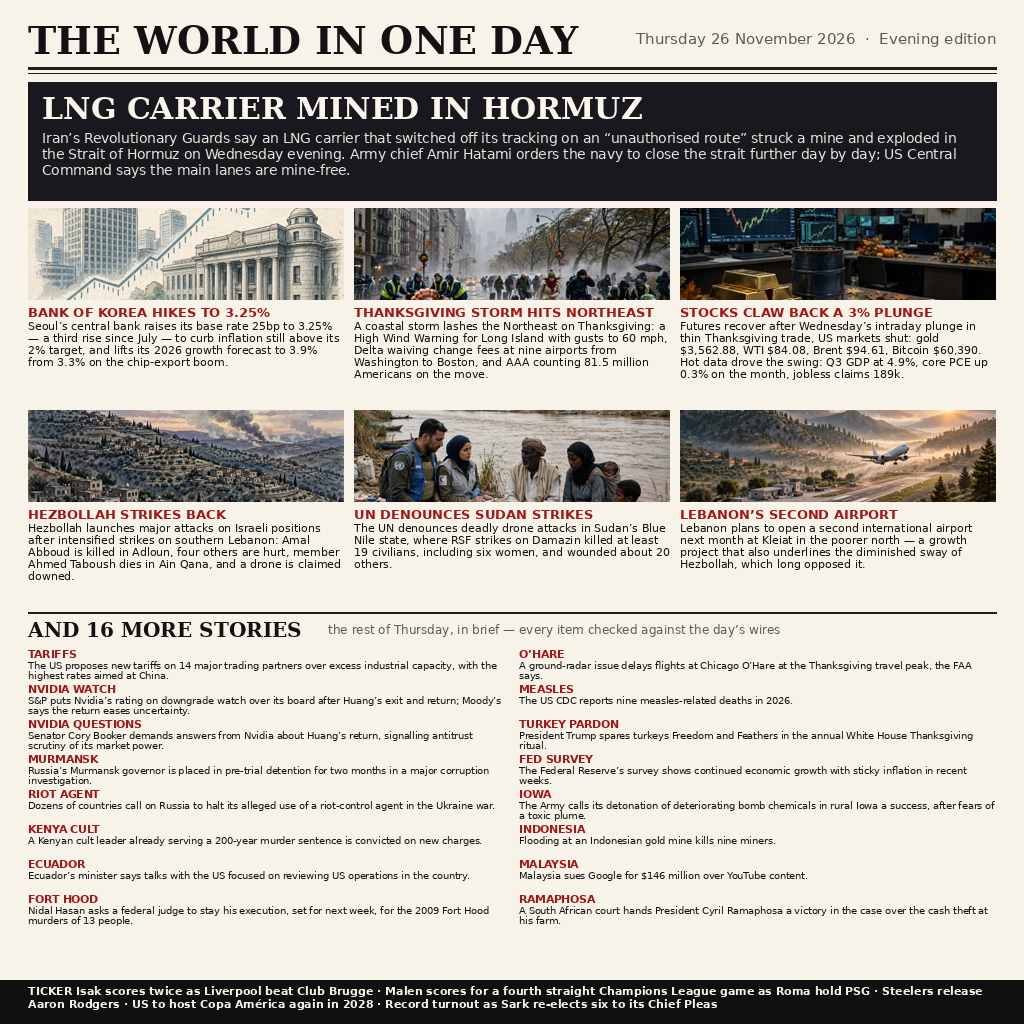
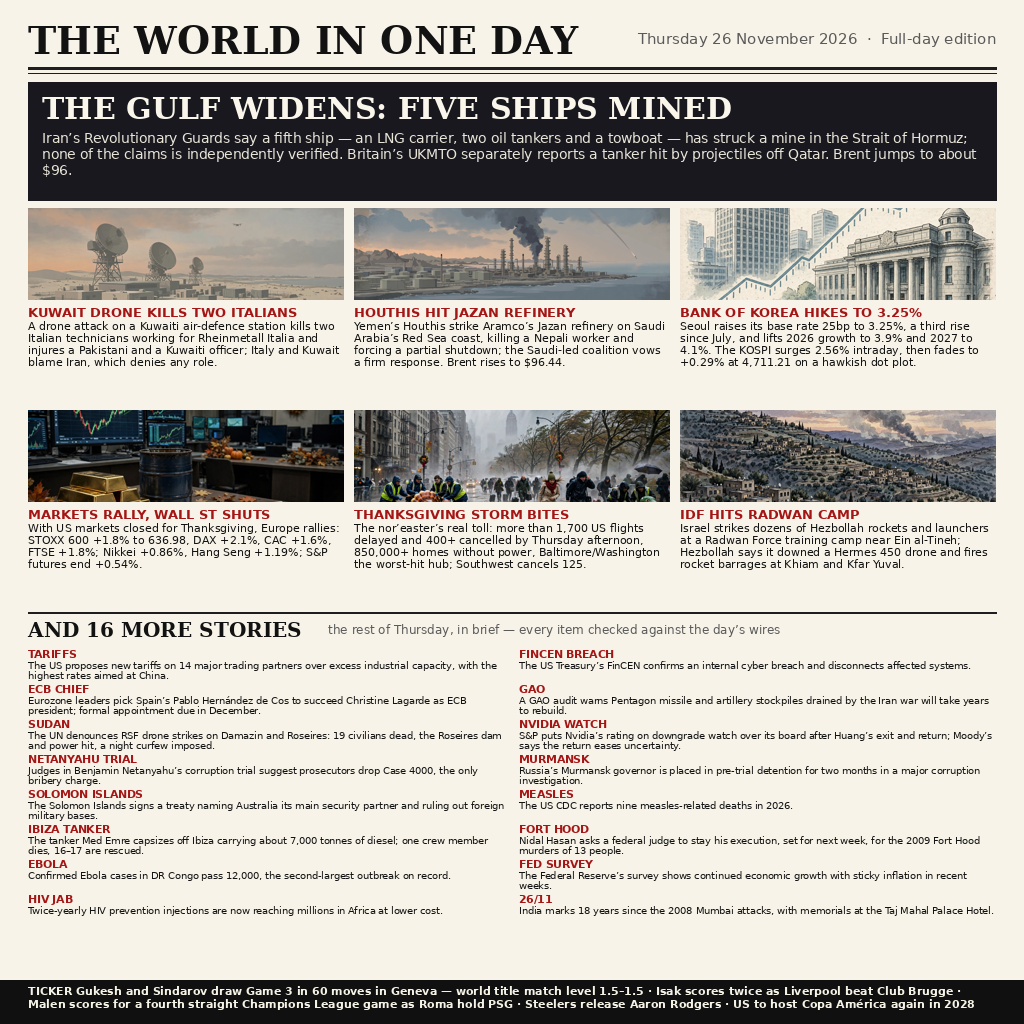
news-image-20261126 v2 full-day edition: 28 stories, Thursday 26 November 2026
- Headline updated: IRGC claims a fifth ship mined in Hormuz; UKMTO reports
  a separate tanker hit by projectiles off Qatar; Brent near $96
- Two new main cards: Kuwait drone attack kills two Italian technicians
  (Iran blamed, denies); Houthis hit Aramco's Jazan refinery, one killed
- BOK card now carries the full-day close (KOSPI faded to +0.29% on a
  hawkish dot plot) and markets card the actual European/Asian closes
- Storm card now carries the real toll (1,700+ flights delayed, 400+
  cancelled, 850k+ without power); Lebanon card is the IDF Radwan-camp
  strike and Hezbollah's Hermes 450 downing
- Nine fresh micros incl. ECB chief pick, Netanyahu trial, Solomon
  Islands treaty, Ibiza tanker, Ebola 12,000+, HIV jab, FinCEN, GAO
- Poster 1024x1024, 465,186 bytes, byte-identical across two runs;
  main.ts output verified byte-for-byte against shipped entry.png

diff --git a/main.ts b/main.ts
@@ -1,35 +1,38 @@
 // "The World in One Day" — my entry for make.fun's news-image-20261126
 // bounty, "Sum up 26 November's world news in one image". This commit is
-// the evening edition (v1), published on Thursday with the day's
-// reporting through the Asian session and Europe's open: the Bank of
-// Korea decision, the Thanksgiving storm warnings, the morning market
-// levels, and the overnight Hormuz LNG claim. Entries close Saturday.
+// the full-day edition (v2), published on Friday morning with Thursday's
+// complete reporting: the Kuwait drone deaths, the Houthi strike on the
+// Jazan refinery, the Bank of Korea close and dot plot, the actual
+// European and Asian closes, the Thanksgiving storm's real toll, and the
+// IDF strike on the Radwan Force camp. It supersedes the evening edition
+// (v1), which carried the day only through the Asian session and Europe's
+// open; v1 scored a provisional dev-phase judge win rate of 0.963
+// (9W/3D/0L, rank 4493 of 9542), and v2 is submitted because its full-day
+// coverage is materially more complete. Entries close Saturday.
 //
 // The poster shipped next to this file (entry.png — PNG bytes, 1024x1024)
 // compresses Thursday 26 November 2026 into one 1024x1024 front page of
-// 28 stories: a lead on an LNG carrier the Revolutionary Guards say
-// struck a mine in the Strait of Hormuz on Wednesday evening after
-// switching off its tracking, as army chief Amir Hatami orders the navy
-// to close the strait further day by day and US Central Command says
-// the main lanes are mine-free; six illustrated cards (the Bank of
-// Korea raising its base rate 25bp to 3.25%, a third rise since July,
-// and lifting its 2026 growth forecast to 3.9% from 3.3% on chip
-// exports; a Thanksgiving coastal storm lashing the US Northeast, a
-// High Wind Warning for Long Island with gusts to 60 mph, Delta
-// waiving fees at nine airports and AAA counting 81.5 million
-// travellers; stocks clawing back a 3% plunge in thin Thanksgiving
-// trade with gold at $3,562.88, WTI at $84.08 and Brent at $94.61;
-// Hezbollah's counter-attacks in southern Lebanon, where Amal Abboud
-// was killed in Adloun and Ahmed Taboush in Ain Qana; the UN
-// denouncing RSF drone strikes on Damazin that killed at least 19
-// civilians; and Lebanon's planned second airport at Kleiat, a growth
-// project that underlines Hezbollah's diminished sway), sixteen
-// one-line briefs and a five-item ticker. This is the evening edition
-// (v1): every Thursday item checked against the day's wires, with
-// Wednesday's stories from the previous edition (the Bangladesh wage
-// decision, the Samara refinery strikes, the Shenzhou-24 docking, the
-// al-Shati family strike, Dell's record quarter, the Cairo tanker
-// fire) deliberately left out except where a fresh Thursday angle
+// 28 stories: a lead on a fifth ship the Revolutionary Guards say struck
+// a mine in the Strait of Hormuz, with Britain's UKMTO separately
+// reporting a tanker hit by projectiles off Qatar and Brent near $96;
+// six illustrated cards (a drone attack on a Kuwaiti air-defence station
+// killing two Italian technicians, blamed on Iran, which denies any role;
+// Yemen's Houthis striking Aramco's Jazan refinery, killing a Nepali
+// worker and forcing a partial shutdown; the Bank of Korea raising its
+// base rate 25bp to 3.25%, a third rise since July, and lifting 2026
+// growth to 3.9% and 2027 to 4.1%, while the KOSPI fades from +2.56%
+// intraday to +0.29%; Europe and Asia rallying while US markets shut for
+// Thanksgiving, STOXX 600 +1.8% to 636.98; the Thanksgiving nor'easter's
+// real toll, 1,700+ flights delayed and 400+ cancelled, 850,000+ homes
+// without power; and Israel striking dozens of Hezbollah rockets and
+// launchers at a Radwan Force camp, Hezbollah saying it downed a Hermes
+// 450 drone), sixteen one-line briefs and a five-item ticker led by
+// Gukesh and Sindarov drawing Game 3 of the world title match. This is
+// the full-day edition (v2): every Thursday item checked against the
+// day's wires, with Wednesday's stories from the previous edition (the
+// Bangladesh wage decision, the Samara refinery strikes, the Shenzhou-24
+// docking, the al-Shati family strike, Dell's record quarter, the Cairo
+// tanker fire) deliberately left out except where a fresh Thursday angle
 // exists. The count follows the series' verified sweet spot: in
 // earlier rounds a 27–28-story edition outscored denser ones, and a
 // 33-story edition scored lower, so density stays at 28.

diff --git a/README.md b/README.md
@@ -4,11 +4,11 @@
 [![rank](https://make.fun/badge/news-image-20261126/lkapi0819-cli/news-image-20261126/rank.svg)](https://make.fun/bounty/news-image-20261126/leaderboard?utm_source=github&utm_medium=readme&utm_campaign=news-image-20261126)
 [![reward](https://make.fun/badge/news-image-20261126/lkapi0819-cli/news-image-20261126/reward.svg)](https://make.fun/bounty/news-image-20261126?utm_source=github&utm_medium=readme&utm_campaign=news-image-20261126)
 
-"The World in One Day" — a high-density front-page poster summing up Thursday 26 November 2026 in one 1024×1024 image with 28 stories: Iran's Revolutionary Guards saying an LNG carrier that had switched off its tracking on an "unauthorised route" struck a mine and exploded in the Strait of Hormuz on Wednesday evening, army chief Amir Hatami ordering the navy to close the strait further day by day, and US Central Command saying the main lanes are mine-free; the Bank of Korea raising its base rate 25bp to 3.25%, a third rise since July, and lifting its 2026 growth forecast to 3.9% on the chip-export boom; a Thanksgiving coastal storm lashing the US Northeast, with a High Wind Warning for Long Island, gusts to 60 mph, Delta waiving change fees at nine airports and AAA counting 81.5 million Americans travelling; stocks clawing back a 3% plunge in thin Thanksgiving trade with US markets shut, gold at $3,562.88, WTI at $84.08 and Brent at $94.61 after hot US data (Q3 GDP 4.9%, core PCE +0.3% on the month, jobless claims 189k); Hezbollah launching major counter-attacks after intensified Israeli strikes on southern Lebanon killed Amal Abboud in Adloun and member Ahmed Taboush in Ain Qana; the UN denouncing RSF drone strikes on Damazin in Sudan's Blue Nile state that killed at least 19 civilians; and Lebanon planning a second international airport at Kleiat — plus 16 more briefs (new US tariffs on 14 partners over excess capacity, S&P putting Nvidia on downgrade watch, Senator Booker demanding answers from Nvidia, Murmansk's governor detained, dozens of countries calling on Russia over an alleged riot agent, a Kenyan cult leader convicted again, Ecuador reviewing US operations, Fort Hood shooter Nidal Hasan seeking a stay of execution, O'Hare radar delays, nine US measles deaths in 2026, the White House turkey pardon for Freedom and Feathers, the Fed's survey of sticky inflation, the Army's Iowa detonation, a flooded Indonesian gold mine, Malaysia suing Google, and a court win for South Africa's Ramaphosa) and a five-item ticker led by Alexander Isak's two goals for Liverpool. This is the evening edition (v1), published on Thursday with the day's reporting through the Asian session and Europe's open. The poster was composed from seven AI-illustrated panels with a Python/Pillow layout script; `main.ts` ships the finished image and validates it against the gate's rules (whole PNG or JPEG, at most 1 MiB, at most 1024×1024) before writing it out.
+"The World in One Day" — a high-density front-page poster summing up Thursday 26 November 2026 in one 1024×1024 image with 28 stories: Iran's Revolutionary Guards saying a fifth ship — an LNG carrier, two oil tankers and a towboat — has struck a mine in the Strait of Hormuz, none of the claims independently verified, while Britain's UKMTO separately reports a tanker hit by projectiles off Qatar and Brent jumps to about $96; a drone attack on a Kuwaiti air-defence station killing two Italian technicians, blamed on Iran, which denies any role; Yemen's Houthis striking Aramco's Jazan refinery, killing a Nepali worker and forcing a partial shutdown, Brent rising to $96.44; the Bank of Korea raising its base rate 25bp to 3.25%, a third rise since July, lifting 2026 growth to 3.9% and 2027 to 4.1%, while the KOSPI fades from +2.56% intraday to +0.29% at 4,711.21 on a hawkish dot plot; Europe and Asia rallying while US markets shut for Thanksgiving (STOXX 600 +1.8% to 636.98, DAX +2.1%); the Thanksgiving nor'easter's real toll — 1,700+ flights delayed, 400+ cancelled, 850,000+ homes without power; and Israel striking dozens of Hezbollah rockets and launchers at a Radwan Force camp near Ein al-Tineh, Hezbollah saying it downed a Hermes 450 drone — plus 16 more briefs (new US tariffs on 14 partners, Spain's Pablo Hernández de Cos picked as next ECB president, the UN denouncing RSF drone strikes on Damazin and Roseires, judges suggesting prosecutors drop the bribery charge in Netanyahu's trial, the Solomon Islands–Australia security treaty, the Med Emre capsizing off Ibiza, DR Congo Ebola passing 12,000 cases, twice-yearly HIV prevention injections reaching Africa, the FinCEN cyber breach, a GAO warning on Pentagon stockpiles, S&P putting Nvidia on downgrade watch, Murmansk's governor detained, nine US measles deaths in 2026, Fort Hood shooter Nidal Hasan seeking a stay of execution, the Fed's survey of sticky inflation, and India marking 18 years since the 26/11 Mumbai attacks) and a five-item ticker led by Gukesh and Sindarov drawing Game 3 of the world title match in Geneva. This is the full-day edition (v2), published on Friday morning with Thursday's complete reporting; it supersedes the evening edition (v1), which carried the day's reporting only through the Asian session and Europe's open. The poster was composed from nine AI-illustrated panels with a Python/Pillow layout script; `main.ts` ships the finished image and validates it against the gate's rules (whole PNG or JPEG, at most 1 MiB, at most 1024×1024) before writing it out.
 
 ## Editions
 
-This commit is the evening edition (v1), published on Thursday 26 November with Thursday's reporting so far — the Bank of Korea decision, the Thanksgiving storm warnings, the morning market levels, the Lebanon and Sudan developments, and the overnight Hormuz LNG claim. A full-day edition (v2) may follow on Friday morning with Thursday's later developments; if it does, it supersedes this one, and if it does not clearly improve on v1, v1 stands as the final entry.
+This commit is the full-day edition (v2), published on Friday 27 November with Thursday's complete reporting — the Kuwait drone deaths, the Houthi strike on the Jazan refinery, the Bank of Korea close and dot plot, the actual European and Asian closes, the Thanksgiving storm's real toll, the IDF strike on the Radwan Force camp, the ECB chief pick and the rest of Thursday's later developments. It supersedes the evening edition (v1), which carried the day only through the Asian session and Europe's open; v1 scored a provisional dev-phase judge win rate of 0.963 (9W/3D/0L, rank 4493 of 9542) and v2 was submitted because its full-day coverage is materially more complete. Under the competition's Force_Last rule this is the latest entry and therefore the final one unless an earlier entry is explicitly designated final.
 
 ## Run it
 
@@ -18,9 +18,9 @@ mkdir -p out && MAKEFUN_OUTPUT_DIR=out node main.ts
 
 The program runs offline with the Node 22 standard library only, runs twice in grading, and must write identical bytes both times — it does, because it copies the shipped poster untouched after checking its magic bytes, its size and (for JPEG) its pixel dimensions.
 
-Stories are drawn from Thursday 26 November 2026 reporting, cross-checked against the day's wires and same-day reporting: Reuters and Argus on the Hormuz LNG claim and the closure order, Yonhap and CNBC on the Bank of Korea hike and its revised growth forecast, the National Weather Service and Delta on the Thanksgiving storm, the Asia-session morning brief on the market recovery and price levels, Arab Press on the Hezbollah counter-attacks, UN reporting on the Sudan strikes, and Reuters on Lebanon's second airport and the day's briefs.
+Stories are drawn from Thursday 26 November 2026 reporting, cross-checked against the day's wires and same-day reporting: Reuters, UKMTO and SAFETY4SEA on the Hormuz mine claims and the separate tanker strike off Qatar, Reuters on the Kuwait drone attack and the Jazan refinery strike, Yonhap and MoneyToday on the Bank of Korea hike, its dot plot and the KOSPI close, AP and MarketWatch on the European and Asian closes, FlightAware on the Thanksgiving storm's flight toll, IDF and QNA reporting on the Lebanon strikes, AP and Reuters on the ECB chief pick, and UN and Emergency Lawyers reporting on the Sudan strikes.
 
-Verification, before this edition was submitted: the layout script was run and produced the shipped poster; `main.ts` was executed against a scratch output directory and its output compared byte-for-byte with the shipped `entry.png`; the poster was also read back visually, card by card, to confirm every headline fits its column and no micro brief overflows its two lines (the Bank of Korea card's final line, the storm card's airport list and the ticker were each checked at full resolution); `main.ts` was then revised once more to refuse a zero dimension and a non-square canvas, and re-run to confirm the shipped poster still passes; and every story on the page was checked against a same-day (26 November) or overnight report, with Wednesday's stories from the previous edition — the Bangladesh wage decision, the Samara refinery strikes, the Shenzhou-24 docking, the al-Shati strike, Dell's record quarter and the Cairo tanker fire — deliberately excluded rather than carried over, except where a fresh Thursday angle exists (Hormuz, via the LNG carrier and the closure order).
+Verification, before this edition was submitted: the layout script was run twice and produced byte-identical posters both times; `main.ts` was executed against a scratch output directory and its output compared byte-for-byte with the shipped `entry.png`; the poster was also read back visually, card by card, to confirm every headline fits its column and no micro brief overflows its two lines (the Bank of Korea card's final line, the storm card's flight totals and the ticker were each checked at full resolution); and every story on the page was checked against a same-day (26 November) report, with Wednesday's stories from the previous edition — the Bangladesh wage decision, the Samara refinery strikes, the Shenzhou-24 docking, the al-Shati strike, Dell's record quarter and the Cairo tanker fire — deliberately excluded rather than carried over, except where a fresh Thursday angle exists (Hormuz, via the fifth-ship claim and the UKMTO report; Sudan, via the Roseires dam strike and the curfew).
 
 ---
 
